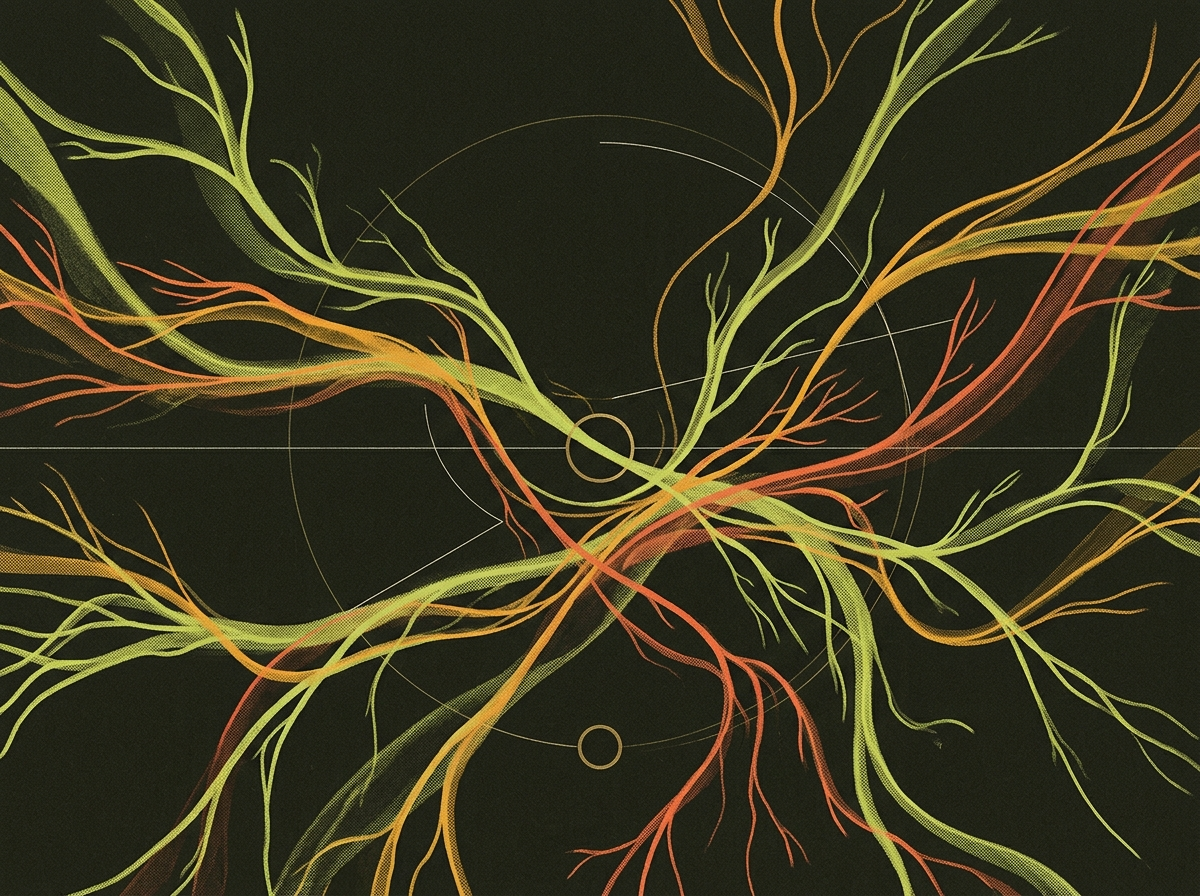
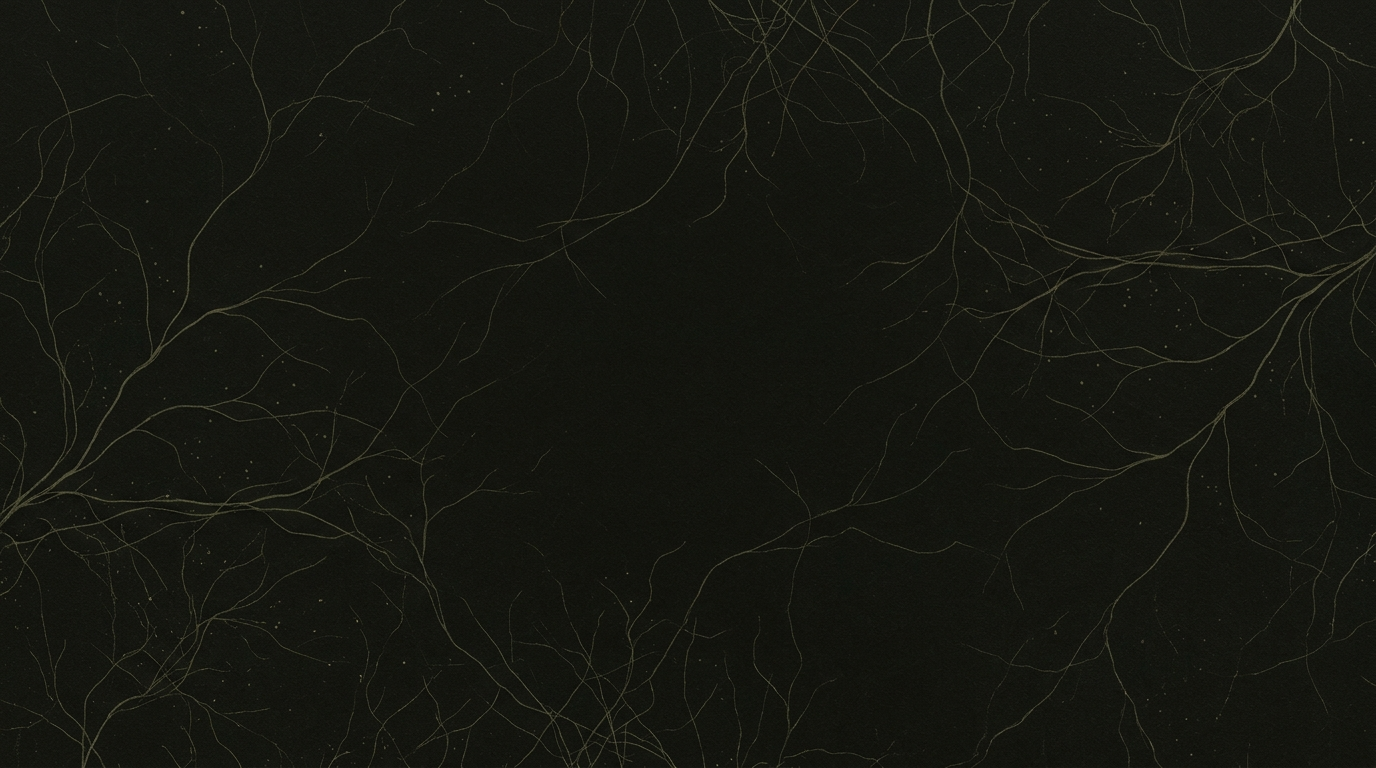
feat(site): fine mycelium backdrop, unboxed hero, transparent header, mobile scaling

Changed region(s): [[0.0, 0.0, 1.0, 1.0], [0.5242, 0.1562, 0.555, 0.1875]]

diff --git a/site/styles.css b/site/styles.css
@@ -69,9 +69,9 @@ header {
 }
 
 header.header-dark {
-  background: rgba(16, 19, 14, 0.78);
-  backdrop-filter: blur(16px);
-  border-bottom: 1px solid rgba(244, 241, 232, 0.09);
+  background: transparent;
+  backdrop-filter: none;
+  border-bottom: 1px solid transparent;
 }
 
 header.header-light {
@@ -301,7 +301,11 @@ header.header-light .btn-cta:hover { background: var(--olive-hover); }
 }
 
 /* Install switcher */
+.hero-cta-strip > * { min-width: 0; }
+
 .install-box {
+  min-width: 0;
+  max-width: 100%;
   background: rgba(12, 15, 10, 0.76);
   backdrop-filter: blur(14px);
   color: var(--cream);
@@ -361,7 +365,8 @@ header.header-light .btn-cta:hover { background: var(--olive-hover); }
   font-size: 0.7rem;
   line-height: 1.5;
   white-space: pre-wrap;
-  word-break: break-word;
+  word-break: break-all;
+  overflow-wrap: anywhere;
   color: var(--cream);
 }
 
@@ -382,21 +387,22 @@ header.header-light .btn-cta:hover { background: var(--olive-hover); }
 /* ================= FULL-BLEED DARK CINEMATIC STORY BAND (Starts right at top) ================= */
 .story-band {
   position: relative;
-  background: #131611;
+  background: #11140f;
   color: var(--cream);
   border-bottom: 1px solid rgba(244, 241, 232, 0.1);
   overflow: hidden;
-  padding: 84px 0 58px;
+  padding: 76px 0 58px;
 }
 
 .story-bg {
   position: absolute;
   inset: 0;
   background-image: url("./assets/hero-mycelium.jpg");
-  background-size: cover;
+  background-size: 1380px auto;
   background-position: center top;
-  opacity: 0.24;
-  filter: saturate(0.9) contrast(1.06);
+  background-repeat: repeat;
+  opacity: 0.62;
+  filter: saturate(0.95) contrast(1.04);
   pointer-events: none;
 }
 
@@ -404,13 +410,9 @@ header.header-light .btn-cta:hover { background: var(--olive-hover); }
   content: "";
   position: absolute;
   inset: 0;
-  background: linear-gradient(
-    180deg,
-    rgba(14, 17, 13, 0.56) 0%,
-    rgba(19, 22, 17, 0.18) 28%,
-    rgba(16, 19, 14, 0.42) 72%,
-    rgba(13, 16, 11, 0.92) 100%
-  );
+  background:
+    radial-gradient(ellipse 68% 58% at 50% 34%, rgba(17, 20, 15, 0.28) 0%, rgba(17, 20, 15, 0.04) 58%, rgba(13, 16, 11, 0.72) 100%),
+    linear-gradient(180deg, rgba(14, 17, 13, 0.25) 0%, rgba(17, 20, 15, 0.04) 22%, rgba(14, 17, 13, 0.25) 75%, rgba(13, 16, 11, 0.88) 100%);
 }
 
 .story-canvas {
@@ -450,16 +452,28 @@ header.header-light .btn-cta:hover { background: var(--olive-hover); }
   color: var(--cream-soft);
 }
 
-/* Panoramic 1200x580 canvas — large crisp sprites, zero clipping */
-.story-stage {
+/* Unboxed, proportionally scaled 1200x555 diorama — zero box border, zero horizontal overflow */
+.story-viewport {
   position: relative;
   width: 100%;
-  aspect-ratio: 1200 / 580;
-  min-height: 520px;
+  margin: 0 auto;
   overflow: hidden;
-  border-radius: 20px;
-  border: 1px solid rgba(244, 241, 232, 0.08);
-  background: rgba(15, 18, 13, 0.45);
+}
+
+@media (min-width: 1220px) {
+  .story-viewport { overflow: visible; }
+}
+
+.story-stage {
+  position: absolute;
+  top: 0;
+  left: 0;
+  width: 1200px;
+  height: 555px;
+  transform-origin: top left;
+  overflow: visible;
+  background: transparent;
+  border: none;
 }
 
 .story-svg {
@@ -1022,32 +1036,30 @@ header.header-light .btn-cta:hover { background: var(--olive-hover); }
 .sd-lock { font-family: var(--mono); font-size: 0.62rem; padding: 2px 7px; border-radius: 999px; background: var(--stone-deep); color: var(--ink-soft); }
 .sd-msg { margin: 0; font-size: 0.78rem; line-height: 1.4; color: var(--ink); }
 
-/* In-scene floating subtitle + Replay CTA (keeps the whole story inside the scene) */
+/* Narrative subtitle + Replay CTA directly beneath the unboxed diorama (crisp on desktop & mobile) */
 .scene-subtitle-wrap {
-  position: absolute;
-  left: 50%;
-  bottom: 12px;
-  transform: translateX(-50%);
+  position: relative;
   z-index: 15;
-  display: inline-flex;
+  margin: -6px auto 14px;
+  display: flex;
+  flex-wrap: wrap;
   align-items: center;
+  justify-content: center;
   gap: 10px;
-  max-width: min(86%, 800px);
-  pointer-events: none;
+  max-width: min(100%, 820px);
 }
 
 .scene-subtitle {
-  background: rgba(14, 16, 12, 0.88);
+  background: rgba(14, 17, 12, 0.76);
   backdrop-filter: blur(12px);
-  border: 1px solid rgba(244, 241, 232, 0.14);
+  border: 1px solid rgba(244, 241, 232, 0.12);
   border-radius: 14px;
-  padding: 7px 18px;
-  font-size: 0.81rem;
-  line-height: 1.4;
+  padding: 8px 18px;
+  font-size: 0.83rem;
+  line-height: 1.44;
   color: var(--cream);
   text-align: center;
-  box-shadow: 0 12px 28px rgba(0, 0, 0, 0.45);
-  pointer-events: none;
+  box-shadow: 0 12px 28px rgba(0, 0, 0, 0.36);
 }
 
 .replay-cta {
@@ -1639,15 +1651,44 @@ footer { border-top: 1px solid var(--border); padding: 34px 0 48px; font-size: 0
 .foot-mono { font-family: var(--mono); font-size: 0.74rem; }
 
 /* ================= RESPONSIVE ================= */
+.paper-window, .qs-card, .qs-facts, .stream-deck, .deck-grid > *, .collage-frame > *, .qs-grid > * {
+  min-width: 0;
+}
+
 @media (max-width: 1020px) {
-  .hero-cta-strip, .spec-grid, .collage-frame, .deck-grid, .qs-grid { grid-template-columns: 1fr; }
-  .hero-cta-strip { gap: 22px; margin-top: 38px; padding-top: 26px; }
+  .hero-cta-strip, .spec-grid, .collage-frame, .deck-grid, .qs-grid { grid-template-columns: minmax(0, 1fr); }
+  .hero-cta-strip { gap: 22px; margin-top: 34px; padding-top: 26px; }
   .spec-col { border-right: none; border-bottom: 1px solid var(--border); padding: 22px 0; }
   .spec-col:last-child { border-bottom: none; }
-  .avatar-ring { width: 64px; height: 64px; }
-  .avatar-ring.hub-ring { width: 120px; height: 120px; }
-  .story-stage { min-height: 430px; }
-  .slack-dm { width: 215px; }
   .nav-links { display: none; }
   .collage-frame { padding: 20px; }
+  .scene-subtitle-wrap { margin-top: 8px; }
+}
+
+@media (max-width: 640px) {
+  .wrap { padding: 0 16px; }
+  .nav-bar { height: 58px; gap: 10px; }
+  .brand-word { font-size: 1.24rem; }
+  .brand-cli { display: none; }
+  .nav-right .btn-ghost { display: none; }
+  .btn-pill { padding: 7px 14px; font-size: 0.8rem; }
+  .story-band { padding: 66px 0 42px; }
+  .story-bg { background-size: 860px auto; }
+  .scene-subtitle { font-size: 0.78rem; padding: 8px 12px; border-radius: 12px; max-width: 100%; }
+  .myc-timeline { gap: 8px; margin-top: 8px; flex-wrap: wrap; height: auto; justify-content: center; }
+  .tl-track-wrap { min-width: 100%; }
+  .tl-dot { width: 13px; height: 13px; }
+  .tl-dot.active { width: 16px; height: 16px; }
+  .tl-dot::after { display: none; }
+  .story-play-btn { padding: 4px 8px; font-size: 0.65rem; }
+  .hero-cta-copy h1 { font-size: 2rem; }
+  .hero-sub { font-size: 0.91rem; }
+  .install-cmd { font-size: 0.66rem; }
+  .section { padding: 56px 0; }
+  .dark-band { padding: 60px 0; }
+  .stream-deck { padding: 16px; }
+  .qs-card { padding: 18px; }
+  .qs-pre { font-size: 0.72rem; }
+  .chat-input-row { flex-direction: column; }
+  .alt-head { flex-wrap: wrap; }
 }

diff --git a/site/index.html b/site/index.html
@@ -38,7 +38,8 @@
       <canvas class="story-canvas" id="sporeCanvas" aria-hidden="true"></canvas>
 
       <div class="wrap story-band-inner">
-        <div class="story-stage">
+        <div class="story-viewport" id="storyViewport">
+        <div class="story-stage" id="storyStage">
           <svg class="story-svg" id="storySvg" viewBox="0 0 1200 580" preserveAspectRatio="none" aria-hidden="true">
             <defs>
               <filter id="hyphaGlow" x="-15%" y="-15%" width="130%" height="130%">
@@ -188,12 +189,13 @@
             </div>
             <p class="sd-msg" id="slackDmMsg">“Jack's ops paged on <strong>checkout-api</strong> (4.2%). Investigating now.”</p>
           </div>
+        </div>
+        </div>
 
-          <!-- In-scene narrative subtitle + end-of-story Replay CTA -->
-          <div class="scene-subtitle-wrap">
-            <div class="scene-subtitle" id="storyCaption"></div>
-            <button class="replay-cta" id="storyReplayBtn" type="button">↻ Play again</button>
-          </div>
+        <!-- Narrative subtitle + end-of-story Replay CTA (always full-size & crisp on desktop and mobile) -->
+        <div class="scene-subtitle-wrap">
+          <div class="scene-subtitle" id="storyCaption"></div>
+          <button class="replay-cta" id="storyReplayBtn" type="button">↻ Play again</button>
         </div>
 
         <!-- Single-line Organic Mycelial Timeline (intertwining growing vine + glowing spore dots + popovers) -->

diff --git a/site/app.js b/site/app.js
@@ -23,6 +23,30 @@ function esc(s) {
   window.addEventListener("resize", syncHeaderTheme, { passive: true });
 })();
 
+// Proportional 1200x555 stage scaling so sprites, wires, bubbles & packets stay pixel-exact on desktop, tablet & mobile
+(function initResponsiveStage() {
+  const viewport = document.getElementById("storyViewport");
+  const stage = document.getElementById("storyStage");
+  if (!viewport || !stage) return;
+
+  const LOGICAL_W = 1200;
+  const LOGICAL_H = 555;
+
+  function fitStage() {
+    const availW = viewport.clientWidth || LOGICAL_W;
+    const scale = Math.min(1, availW / LOGICAL_W);
+    const offsetX = Math.max(0, (availW - LOGICAL_W * scale) / 2);
+    stage.style.transform = `translateX(${offsetX.toFixed(1)}px) scale(${scale.toFixed(4)})`;
+    viewport.style.height = `${Math.round(LOGICAL_H * scale)}px`;
+  }
+
+  fitStage();
+  if (typeof ResizeObserver !== "undefined") {
+    new ResizeObserver(fitStage).observe(viewport);
+  }
+  window.addEventListener("resize", fitStage, { passive: true });
+})();
+
 // ============================================================================
 // 1. HERO INSTALL SWITCHER
 // ============================================================================
